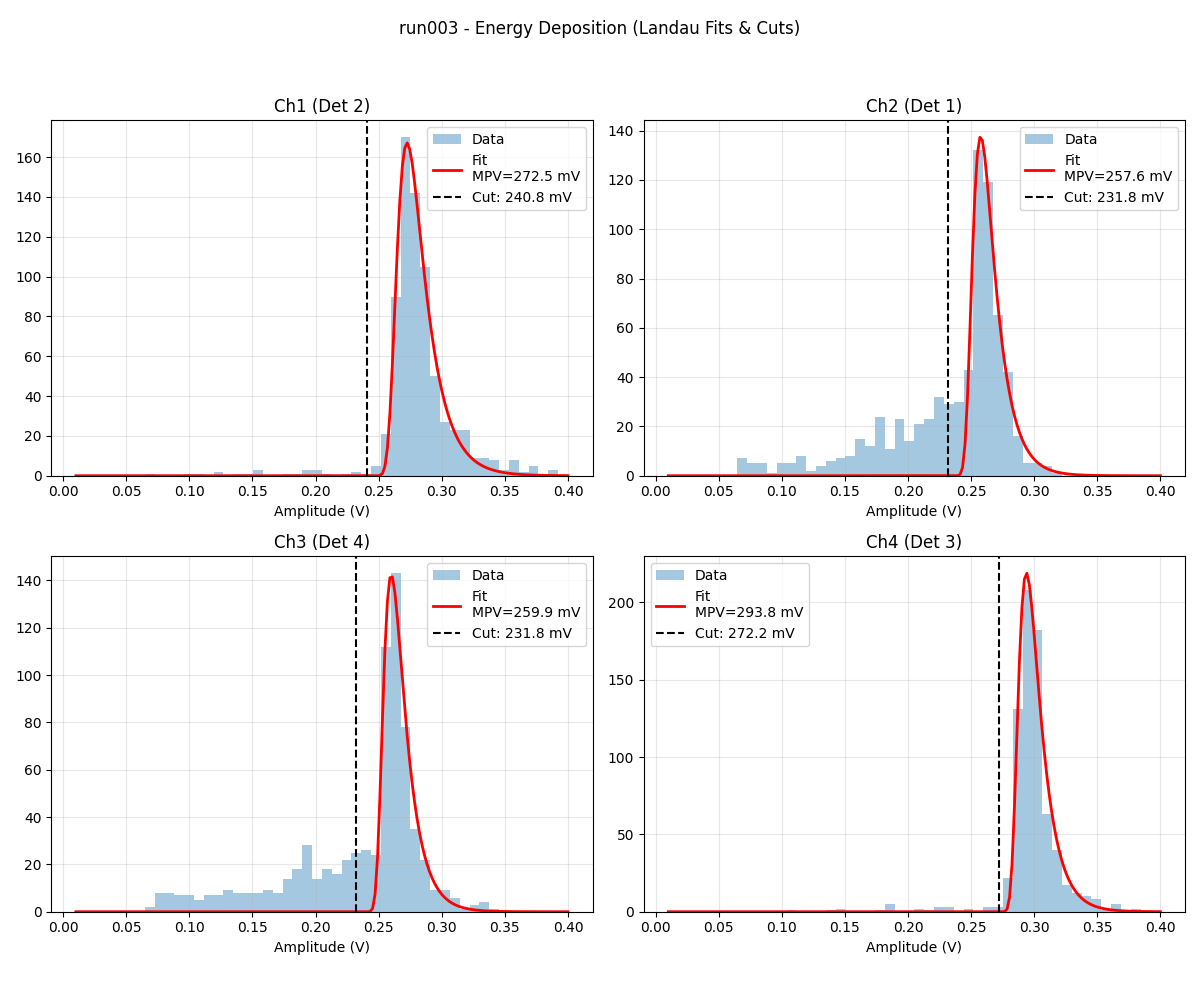
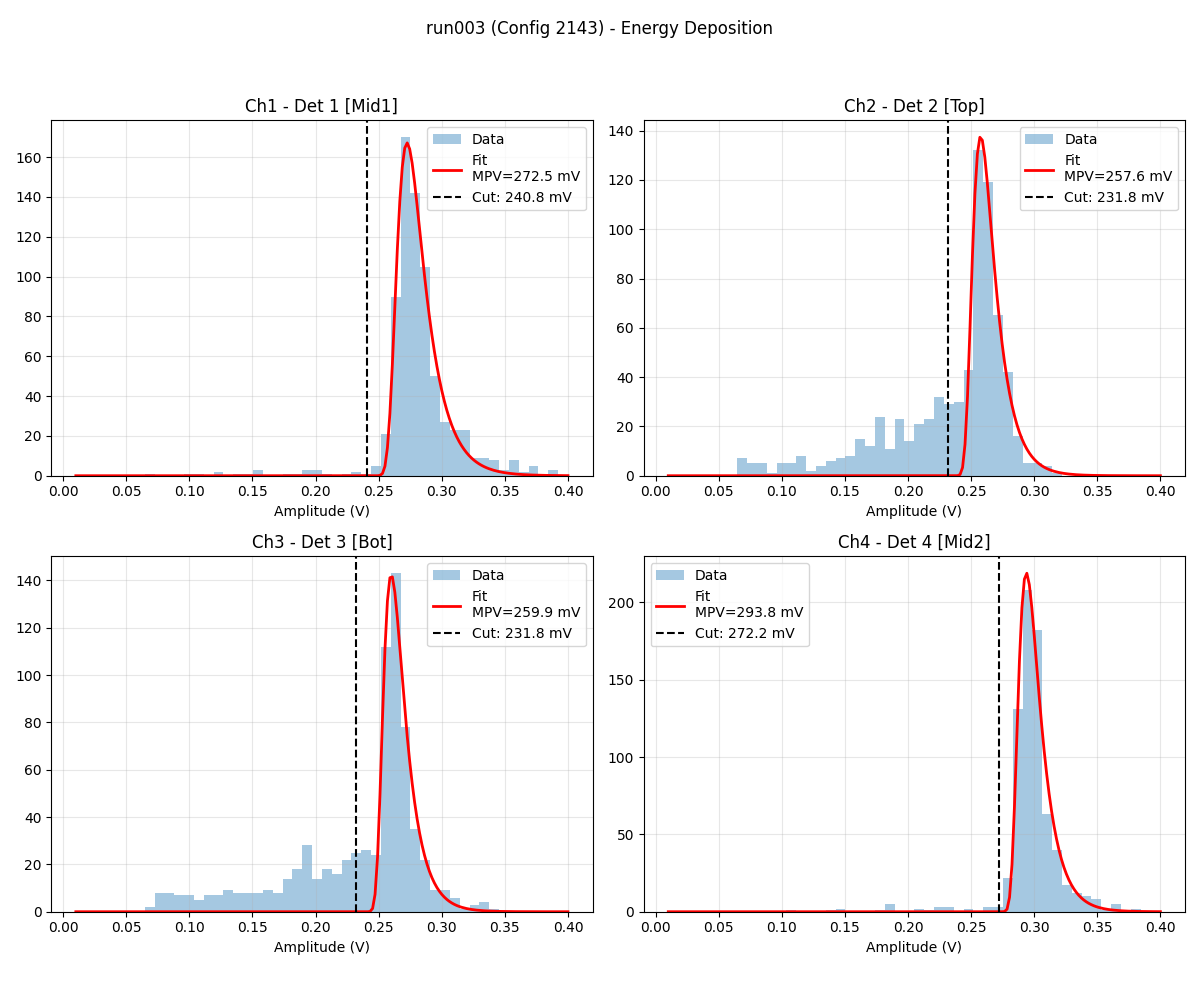
fix: update plots with correct detector position labels

diff --git a/analysis/analyse_physical.py b/analysis/analyse_physical.py
@@ -30,7 +30,7 @@ def landau_fit_func(x, mpv, width, amp):
 
 def parse_run_info(run_dir):
     """
-    Extracts run ID and detector mapping.
+    Extracts run ID and detector stack configuration string.
     """
     dirname = os.path.basename(os.path.normpath(run_dir))
     
@@ -38,19 +38,28 @@ def parse_run_info(run_dir):
     run_match = re.search(r'(run\d+)', dirname)
     run_id = run_match.group(1) if run_match else "unknown_run"
     
-    # Detector Mapping
+    # Stack Configuration (e.g. 1234, 2143)
+    # Default to 1234 if not found
     match = re.search(r'config_(\d{4})', dirname)
-    mapping = {}
-    if match:
-        s = match.group(1)
-        mapping[1] = int(s[0])
-        mapping[2] = int(s[1])
-        mapping[3] = int(s[2])
-        mapping[4] = int(s[3])
-    else:
-        mapping = {1:1, 2:2, 3:3, 4:4}
+    config_str = match.group(1) if match else "1234"
         
-    return run_id, mapping
+    return run_id, config_str
+
+def get_position_label(det_id, config_str):
+    """
+    Returns the physical position label (Top, Mid1, Mid2, Bot) 
+    for a given Detector ID (1-4) based on the config string.
+    config_str example: "2143" -> Det 2 is Top, Det 1 is Mid1, etc.
+    """
+    det_char = str(det_id)
+    if det_char not in config_str:
+        return "Unknown"
+    
+    idx = config_str.index(det_char)
+    positions = ["Top", "Mid1", "Mid2", "Bot"]
+    if idx < len(positions):
+        return positions[idx]
+    return "Unknown"
 
 def load_wfm_data(run_dir):
     """
@@ -167,13 +176,13 @@ def plot_waveforms(time, data, indices, run_id, label, suffix):
     plt.close(fig)
     print(f"  Saved {suffix}: {out_path}")
 
-def plot_landau_fits(amplitudes, cuts, run_id, mapping):
+def plot_landau_fits(amplitudes, cuts, run_id, config_str):
     """
     Plots Pulse Height Distributions with Landau Fits.
     """
     fig, axes = plt.subplots(2, 2, figsize=(12, 10))
     axes = axes.flatten()
-    fig.suptitle(f"{run_id} - Energy Deposition (Landau Fits & Cuts)")
+    fig.suptitle(f"{run_id} (Config {config_str}) - Energy Deposition")
     
     for i, ch in enumerate(range(1, 5)):
         ax = axes[i]
@@ -203,7 +212,9 @@ def plot_landau_fits(amplitudes, cuts, run_id, mapping):
         cut_val = cuts[ch]
         ax.axvline(cut_val, color='k', linestyle='--', label=f'Cut: {cut_val*1000:.1f} mV')
         
-        ax.set_title(f"Ch{ch} (Det {mapping[ch]})")
+        det_id = ch
+        pos_label = get_position_label(det_id, config_str)
+        ax.set_title(f"Ch{ch} - Det {det_id} [{pos_label}]")
         ax.set_xlabel("Amplitude (V)")
         ax.legend()
         ax.grid(True, alpha=0.3)
@@ -216,8 +227,8 @@ def plot_landau_fits(amplitudes, cuts, run_id, mapping):
 
 def analyze_run(run_dir):
     print(f"Analyzing: {run_dir}")
-    run_id, mapping = parse_run_info(run_dir)
-    print(f"  Run ID: {run_id}, Mapping: {mapping}")
+    run_id, config_str = parse_run_info(run_dir)
+    print(f"  Run ID: {run_id}, Config: {config_str}")
     
     time, data = load_wfm_data(run_dir)
     if data is None:
@@ -279,7 +290,7 @@ def analyze_run(run_dir):
     valid_indices = sorted(clean_indices + clipped_indices)
     amplitudes_valid = {ch: amplitudes[ch][valid_indices] for ch in range(1, 5)}
     
-    plot_landau_fits(amplitudes_valid, cuts, run_id, mapping)
+    plot_landau_fits(amplitudes_valid, cuts, run_id, config_str)
     
     if clean_indices:
         plot_waveforms(time, data, clean_indices, run_id, "Good Waveforms", "good_waveforms")
@@ -337,7 +348,7 @@ def analyze_run(run_dir):
             pass
             
         pair_vars.append(sigma**2)
-        ax.set_title(f"Ch{chA}-Ch{chB} (Det {mapping[chA]}-{mapping[chB]})\nSigma = {sigma:.3f} ns")
+        ax.set_title(f"Ch{chA}-Ch{chB} (Det {chA}-{chB})\nSigma = {sigma:.3f} ns")
         ax.set_xlabel("Delta T (ns)")
 
     plt.tight_layout(rect=[0, 0.03, 1, 0.95])
@@ -355,20 +366,23 @@ def analyze_run(run_dir):
     
     print("  Calculated Jitter (ns):")
     for i, s in enumerate(sigmas):
-        det_id = mapping[i+1]
-        print(f"    Ch{i+1} (Det {det_id}): {s:.3f} ns")
+        det_id = i + 1
+        pos_label = get_position_label(det_id, config_str)
+        print(f"    Ch{i+1} (Det {det_id} - {pos_label}): {s:.3f} ns")
 
     # --- Save Results to Text ---
     with open(os.path.join(RESULTS_DIR, f"{run_id}_jitter_results.txt"), "w") as f:
         f.write(f"Run: {run_id}\n")
+        f.write(f"Config: {config_str}\n")
         f.write(f"Events: {num_events}\n")
         f.write(f"  Clean: {len(clean_indices)}\n")
         f.write(f"  Clipped: {len(clipped_indices)}\n")
         f.write(f"  Noise: {len(noise_indices)}\n")
         f.write("Jitter Results (sigma):\n")
         for i, s in enumerate(sigmas):
-            det_id = mapping[i+1]
-            f.write(f"  Det {det_id} (Ch{i+1}): {s:.4f} ns\n")
+            det_id = i + 1
+            pos_label = get_position_label(det_id, config_str)
+            f.write(f"  Det {det_id} (Ch{i+1}) [{pos_label}]: {s:.4f} ns\n")
 
 def main():
     os.makedirs(RESULTS_DIR, exist_ok=True)
